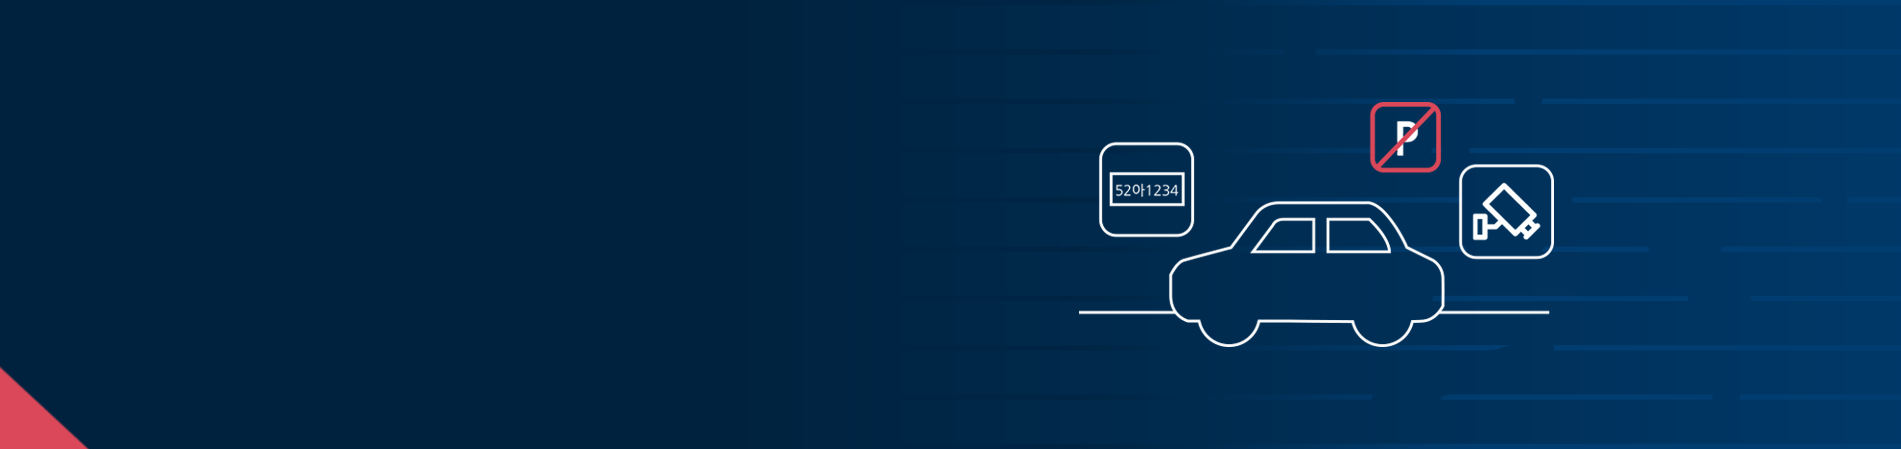
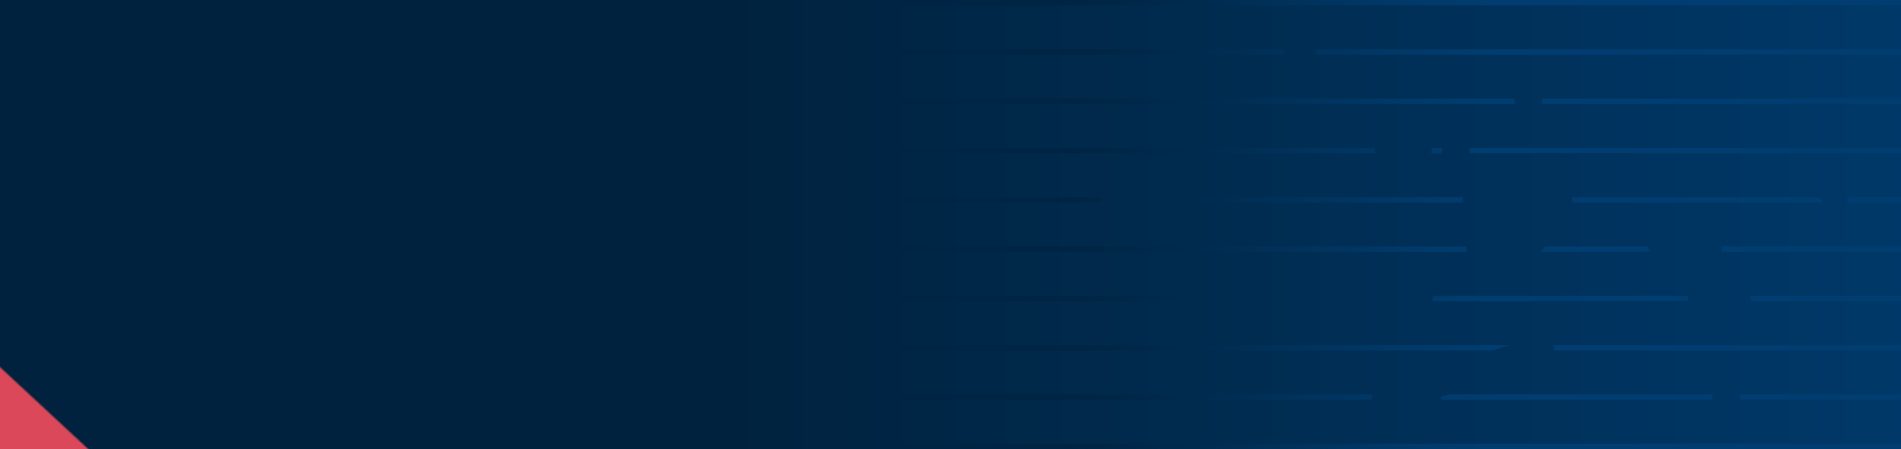
비지니스 배너

diff --git a/assets/css/dk-style-v2.css b/assets/css/dk-style-v2.css
@@ -79,10 +79,13 @@ header:after{
 
 
 /* * * * * * * sub page header * * * * * * */
-.sub-header{
-    background-color: #00223e;
-    height: 100px;
+.sub-header-wrap{
     position: relative;
+    height: 170px;
+    background-color: #00223e;
+}
+.sub-header{
+    height: 100px;
 }
 .sub-header h1{
     position: absolute;
@@ -99,6 +102,7 @@ header:after{
     border-width: 70px 0 0 70px;
     border-color: transparent transparent transparent #da4859;
 }
+
 
 
 /* * * * * * * section * * * * * * */
@@ -186,14 +190,53 @@ section .banner-text h2 + p{
 }
 /* * * * * * *  business header * * * * * * */
 .busi-header{
-    height: 100%;
+    height: 450px !important;
+    width: 100%;
 }
-.busi-header h1{
+.busi-text{
+    float: left;
+    width: 50%;
     position: absolute;
-    left: 15%;
-    top: 27%;
+    left: 0;
+    top: 28%;
     color: #fff;
     text-align: center;
+}
+.busi-img{
+    float: right;
+    width: 50%;
+    padding: 2% 1% 0 7% !important;
+}
+.cctvback{
+    background-image: url(../images/cctvban.png)
+}
+.fcltback{
+    background-image: url(../images/smartcity.png)
+}
+.ipesback{
+    background-image: url(../images/parking.png)
+}
+.smartcity{
+    background-image: url(../images/smart.png)
+}
+.trafficback{
+    background-image: url(../images/traffic.png)
+}
+@media (max-width:1100px) {
+    /* * * * * * * busi-banner 1100px * * * * * * */
+    .busi-img{
+        display: none
+    }
+    .busi-header{
+        height: 300px !important;
+    }
+    .busi-header .busi-text{
+        width: 100%;
+        padding-top: 110px;
+        right: 0;
+        left: 0;
+        top: auto
+    }
 }
 
 /* * * * * * *  business * * * * * * */

diff --git a/_includes/business_banner.html b/_includes/business_banner.html
@@ -1,4 +1,8 @@
-<div class="busi-header"> 
-  <img src="{{ page.image }}" style="width: 100%"> 
-  <h1>{{ page.title }}</h1>   
+<div class="busi-header {{ page.id }}" style="width: 100%; height: 100%;background-size: cover "> 
+    <div class="busi-text">
+        <h1>{{ page.title }} </h1>
+      </div>   
+  <div class="busi-img" >
+    <img src="{{ page.image }}" > 
+  </div>
 </div> 

diff --git a/_includes/default_banner.html b/_includes/default_banner.html
@@ -1,6 +1,6 @@
-<div>
+<div class="sub-header-wrap">
   <div class="sub-header" {% if page.image %}style="background-image: url({{ page.image }});"{% else %}  {% endif %}>
-    
+
     <h1>{{ page.title }}</h1>
   </div> 
   <div class="triangle-bottomleft"></div>

diff --git a/business/traffic.html b/business/traffic.html
@@ -4,7 +4,8 @@ title: 지능형 교통관리 소프트웨어
 permalink: /business/traffic/
 sitemap: yes
 excerpt: 지능형 교통관리 소프트웨어
-image: /assets/images/traffic.png
+image: /assets/images/traffic-img.png
+id: trafficback
 ---
 
 <div>

diff --git a/business/ipes.html b/business/ipes.html
@@ -4,7 +4,8 @@ title: 불법주정차 무인단속시스템
 permalink: /business/ipes/
 sitemap: yes
 excerpt: 불법주정차 무인단속시스템
-image: /assets/images/parking.png
+image: /assets/images/parking-img.png
+id: ipesback
 ---
 
 <div>

diff --git a/business/fclt.html b/business/fclt.html
@@ -4,7 +4,8 @@ title: 스마트 유지관리 플랫폼
 permalink: /business/fclt/
 sitemap: yes
 excerpt: 스마트 유지관리 플랫폼
-image: /assets/images/smart.png
+image: /assets/images/smart-img.png
+id: fcltback
 ---
 
 <div>

diff --git a/business/smartcity.html b/business/smartcity.html
@@ -4,7 +4,8 @@ title: 스마트시티 플랫폼
 permalink: /business/smartcity/
 sitemap: yes
 excerpt: 스마트시티 플랫폼
-image: /assets/images/smartcity.png
+image: /assets/images/smartcity-img.png
+id: smartcity
 ---
 
 <div>

diff --git a/business/cctv.html b/business/cctv.html
@@ -4,7 +4,8 @@ title: CCTV 통합관제 플랫폼
 permalink: /business/cctv/
 sitemap: yes
 excerpt: CCTV 통합관제 플랫폼
-image: /assets/images/cctvban.png
+image: /assets/images/cctvban-img.png
+id: cctvback
 ---
 
 <div>
